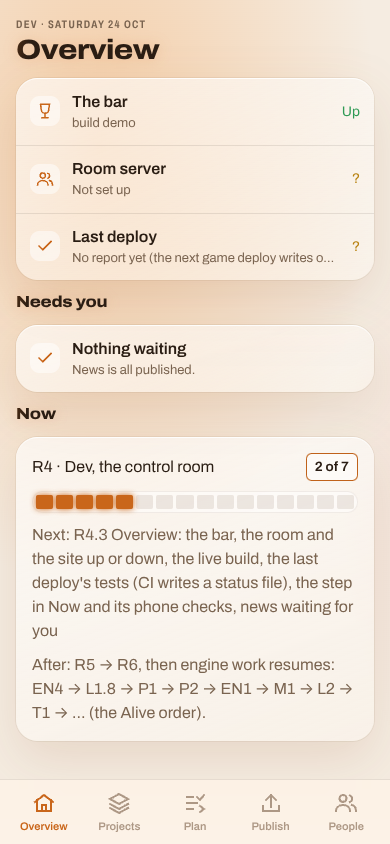
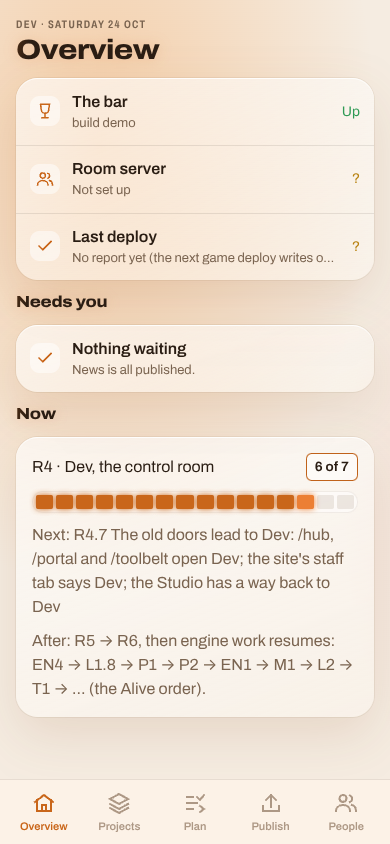
R4.7 The old doors lead to Dev: /hub and /toolbelt open Dev (the old board kept as hub/board.html, unlinked; hub.php stays for news and Claude's key), /portal sends staff to Dev, the site's staff tab and sign-in say Dev, Dials, World notes and the UI Editor go back to Dev, the Studio gets a back key

Changed region(s): [[0.0615, 0.5545, 0.8923, 0.8934]]

diff --git a/README.md b/README.md
@@ -6,6 +6,14 @@ benchmarks by `tools/bench.mjs` (see `bench.jsonl`).
 
 Latest benchmark (2026-10-22 18:44, 922ec64): gi_triangles_full 642040 tris, gi_triangles 99105 tris, gi_load_ms 167 ms, gi_simplify_ms 28 ms, gi_bvh_ms 239 ms, gi_patches 58292, gi_probes_usable 10128, gi_build_ms 6666 ms, gi_rays_per_s 0.59 M/s, gi_solve4_ms 12.6 ms
 
+## R4.7 The old doors lead to Dev: /hub and /toolbelt open Dev (the old board kept as hub/board.html, unlinked; hub.php stays for news and Claude's key), /portal sends staff to Dev, the site's staff tab and sign-in say Dev, Dials, World notes and the UI Editor go back to Dev, the Studio gets a back key to Dev
+
+`f247b0b` · 2026-10-24 06:39 · 15 files, +836 −896 · tests: quick, dev, toolbelt, hub, site
+
+Phone check: open joshuavelasco.com/hub: Dev opens; joshuavelasco.com shows a Dev tab when you're signed in; in the Studio the back arrow (top left) goes to Dev
+
+![R4.7 page-dev-index-demo-overview.jpg](R4.7/page-dev-index-demo-overview.jpg)
+
 ## R4.6 Dev's People tab: everyone with an account (owner and admins first, then who's waiting), Let in / Remove for players, Make admin / Remove admin for the owner only, invite by username (the bar's account.php, moved here from the gate page)
 
 `81477b2` · 2026-10-24 06:31 · 4 files, +59 −1 · tests: quick, dev
